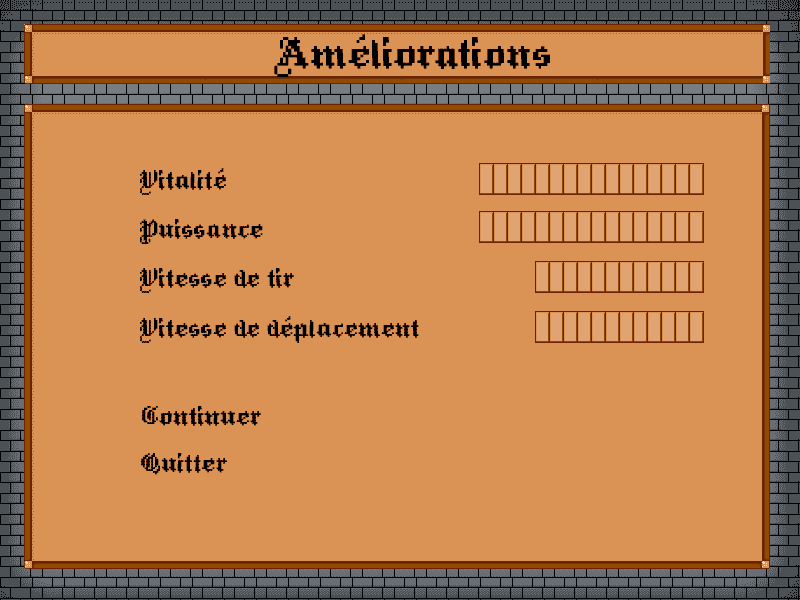
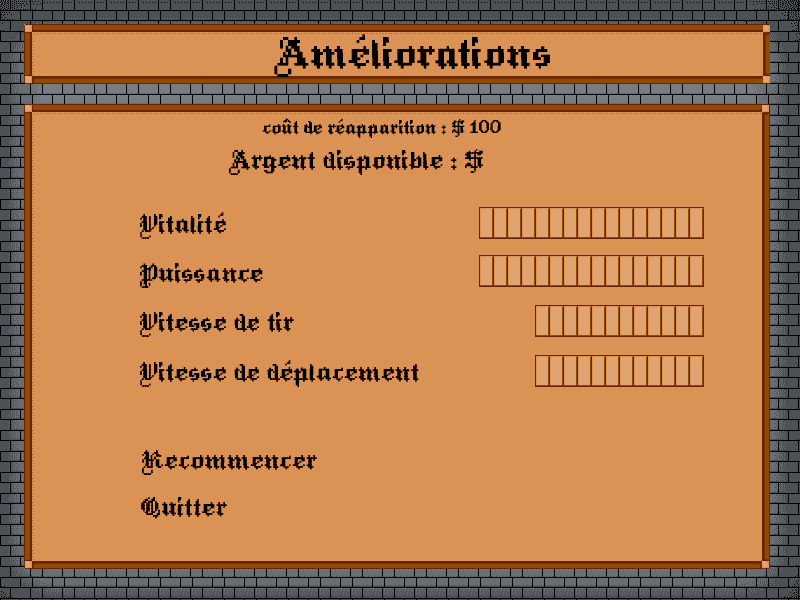
jkfdfd

diff --git a/util.py b/util.py
@@ -1,6 +1,7 @@
 import sys
 import pygame
 import os,inspect
+import math
 
 def load_image(name):
 	name = os.path.dirname(os.path.abspath(inspect.getfile(inspect.currentframe())))+'/images/'+name
@@ -14,6 +15,27 @@ def load_sprite(name):
 	sprite.mask = pygame.mask.from_surface(sprite.image)
 	return sprite
 
+def gameOver(screen):
+	gameOver=1
+	pygame.init()
+	bgGameOver = load_sprite("gameover.png")
+
+	while gameOver==1:
+		for event in pygame.event.get():
+			if event.type == pygame.QUIT:
+				sys.exit()
+
+			keys = pygame.key.get_pressed()
+
+			if keys[pygame.K_ESCAPE]:
+				gameOver=0
+
+		screen.blit(bgGameOver.image,bgGameOver.rect)
+		pygame.display.flip()
+		screen.blit
+		pygame.time.wait(10)
+
+
 def upgrades(screen,hero):
 	menuUpgrades=1
 	pygame.init()
@@ -26,63 +48,76 @@ def upgrades(screen,hero):
 	choix = 0
 	timer = 0
 	timer2 = 10
-	selectPos = [180,230,280,330,420,470]
+	selectPos = [225,275,325,375,465,505]
 
-	while menuUpgrades==1:
-		for event in pygame.event.get():
-			if event.type == pygame.QUIT:
-				sys.exit()
+	if hero.gold < 100:
+		gameOver(screen)
+	else:
+		hero.gold-=100
 
-		timer-=1
-		timer2-=1
+		while menuUpgrades==1:
 
-		keys = pygame.key.get_pressed()
+			for event in pygame.event.get():
+				if event.type == pygame.QUIT:
+					sys.exit()
 
-		if keys[pygame.K_ESCAPE]:
-			menuUpgrades=0
+			timer-=1
+			timer2-=1
 
-		if keys[pygame.K_UP]:
-			if timer<=0:
-				timer=10
-				if choix==0:
-					choix=5
-				else:
-					choix-=1
-		if keys[pygame.K_DOWN]:
-			if timer<=0:
-				timer=10
-				if choix==5:
-					choix=0
-				else:
-					choix+=1
-		if keys[pygame.K_SPACE]:
-			if timer2<=0:
-				timer2=10
-				if choix==0:
-					#Ameliorer la vitalite du joueur
-					print("choix")
-				if choix==1:
-					#Ameliorer la puissance du joueur
-					print("choix")
-				if choix==2:
-					#Ameliorer la vitesse de tir du joueur
-					print("choix")
-				if choix==3:
-					#Ameliorer la vitesse de deplacement du joueur
-					print("choix")
-				if choix==4:
-					menuUpgrades=0
-					hero.vieCourante = hero.viePleine
-				if choix==5:
-					menuUpgrades=0
+			keys = pygame.key.get_pressed()
 
-		screen.blit(bgUpgrades.image,bgUpgrades.rect)
-		select.rect.centery = selectPos[choix]
-		screen.blit(select.image,select.rect)
+			if keys[pygame.K_ESCAPE]:
+				menuUpgrades=0
 
-		pygame.display.flip()
-		screen.blit
-		pygame.time.wait(10)
+			if keys[pygame.K_UP]:
+				if timer<=0:
+					timer=10
+					if choix==0:
+						choix=5
+					else:
+						choix-=1
+			if keys[pygame.K_DOWN]:
+				if timer<=0:
+					timer=10
+					if choix==5:
+						choix=0
+					else:
+						choix+=1
+			if keys[pygame.K_SPACE]:
+				if timer2<=0:
+					timer2=10
+					if choix==0:
+						#Ameliorer la vitalite du joueur
+						print("+vitalite, prix : %d" % (math.exp(hero.viePleine)))
+					if choix==1:
+						#Ameliorer la puissance du joueur
+						print("+puissance, prix : %d" % (math.exp(hero.puissance)))
+					if choix==2:
+						#Ameliorer la vitesse de tir du joueur
+						print("+vitesseTir, prix : %d" % (math.exp(hero.vitesseTir)))
+					if choix==3:
+						#Ameliorer la vitesse de deplacement du joueur
+						print("+vitesseDepl, prix : %d" % (math.exp(hero.vitesseDepl)))
+					if choix==4:
+						menuUpgrades=0
+						hero.vieCourante = hero.viePleine
+					if choix==5:
+						menuUpgrades=0
+
+			screen.blit(bgUpgrades.image,bgUpgrades.rect)
+			select.rect.centery = selectPos[choix]
+			screen.blit(select.image,select.rect)
+			# initialize font; must be called after 'pygame.init()' to avoid 'Font not Initialized' error
+			myfont = pygame.font.SysFont("monospace", 30)
+			myfont.set_bold(1)
+
+			# render text
+			label = myfont.render(str(hero.gold), 1, (0,0,0))
+			screen.blit(label, (490, 144))
+			pygame.display.flip()
+			screen.blit
+
+			pygame.time.wait(10)
 
 	return hero
 
